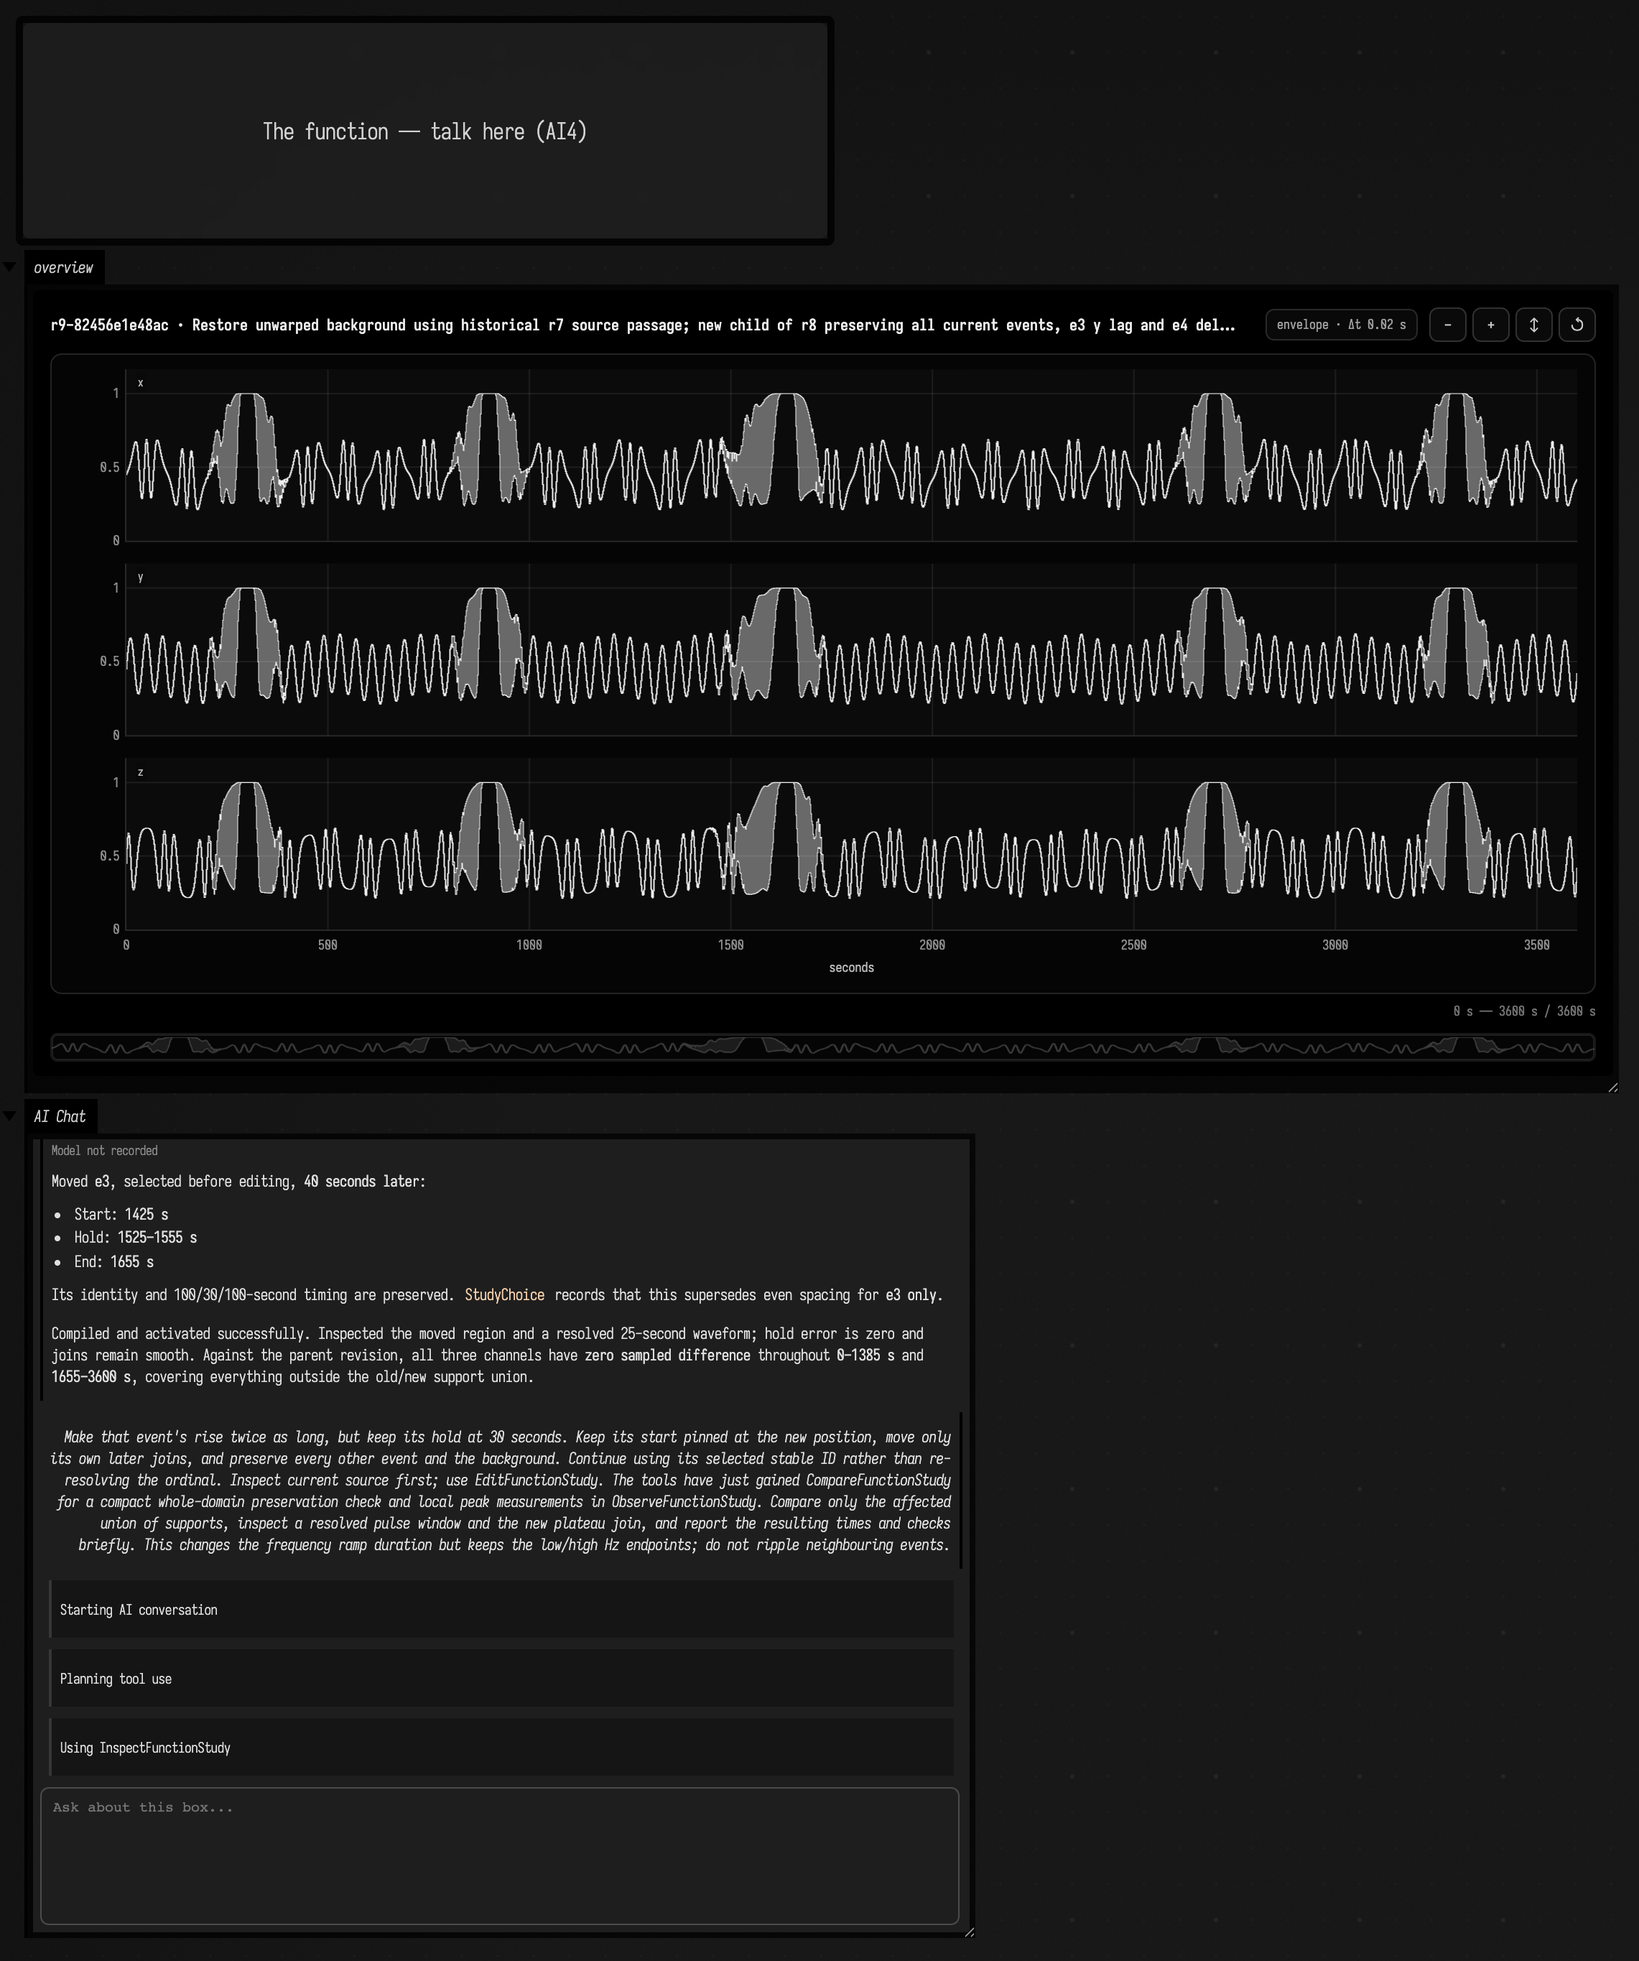
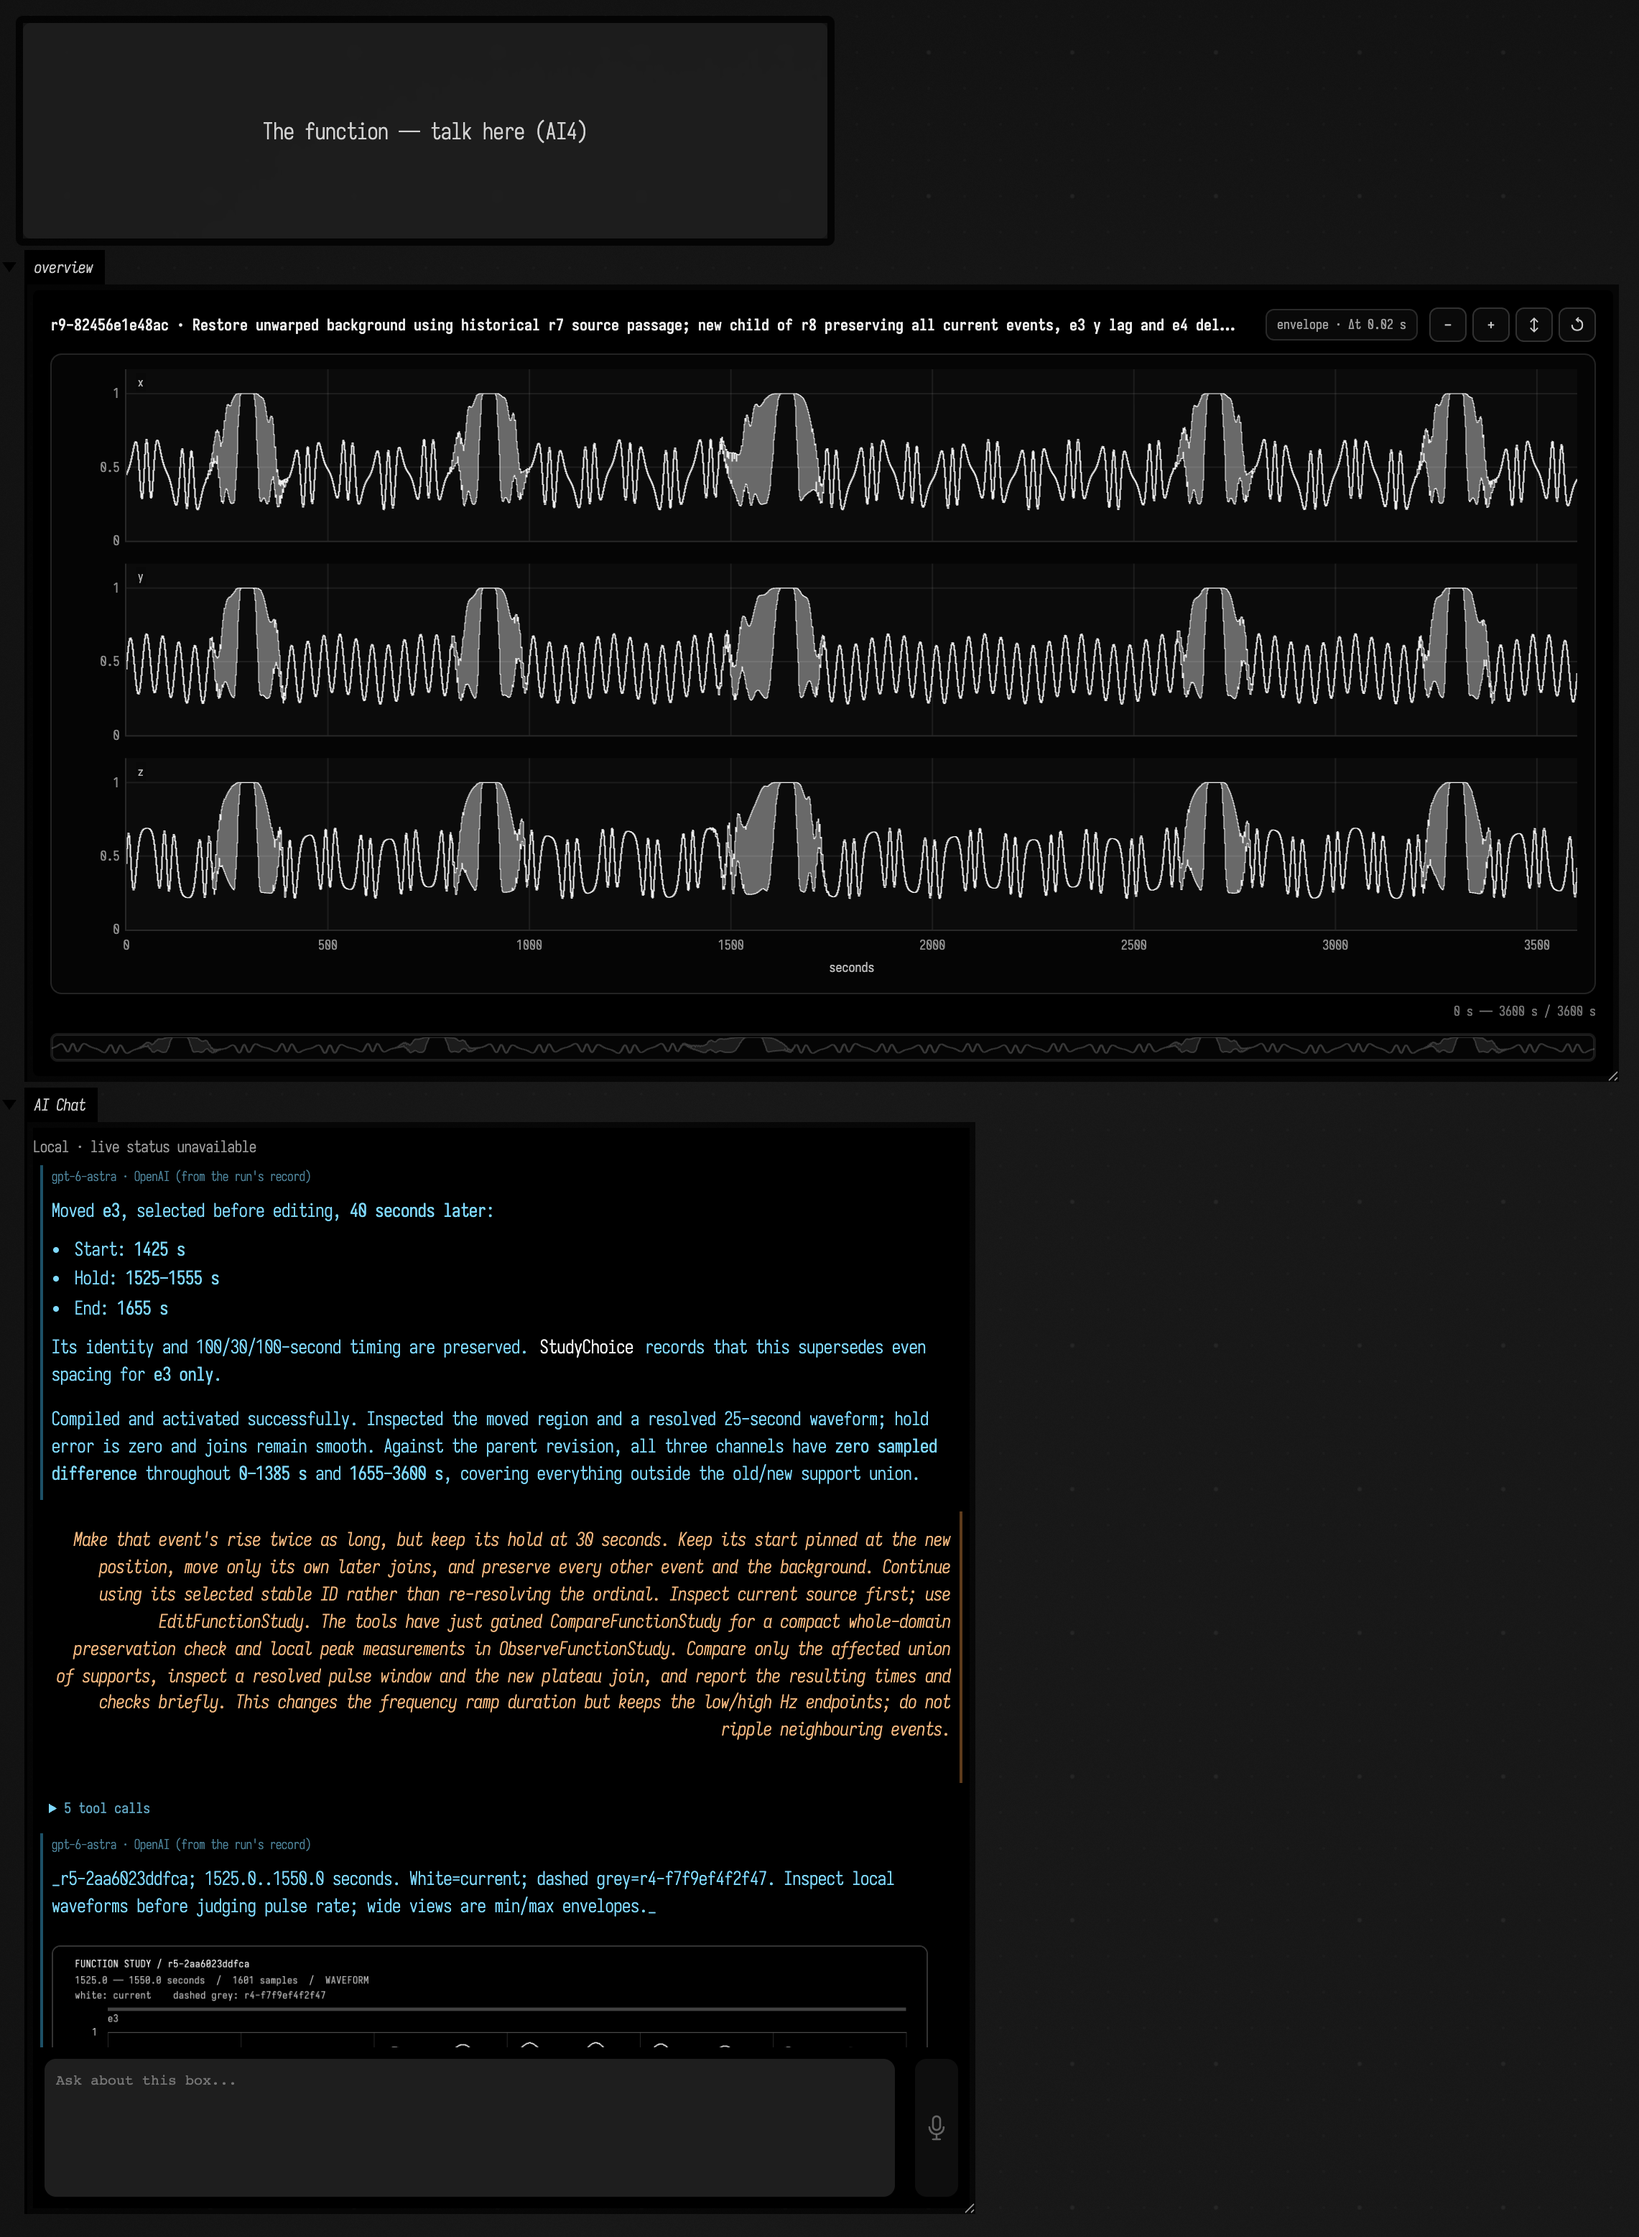
Recapture the function conversation's saved chat; accept recorded source migrations in SourceStudy
The package cutover rewrote the imports in the worked example's saved revisions, whose ids
hash their source, so every revision failed to load. A revision's metadata can now record
the migrated bytes' SHA-256 (migratedSourceSha256); the nine revisions carry it.

diff --git a/src/jvmMain/kotlin/afield/study/source/SourceStudy.kt b/src/jvmMain/kotlin/afield/study/source/SourceStudy.kt
@@ -222,12 +222,22 @@ class SourceStudy<T>(
         val sourceFile = revisionSourceFile(key)
         if (!sourceFile.isFile) throw StudyRejection("Unknown revision '$key'")
         val source = sourceFile.readText()
-        if (key.substringAfter('-') != hash(source).take(12)) throw StudyRejection("Revision source changed on disk: $key")
+        if (!sourceMatches(key, source)) throw StudyRejection("Revision source changed on disk: $key")
         val meta = readMeta(key)
         val admitted = load?.invoke(source) ?: admit(source) { false }
         val result = SourceRevision(key, meta.parent, meta.description, source, admitted.value, admitted.facts)
         revisions[key] = result
         return result
+    }
+
+    // An id names its source's hash at check-in. A repository-wide rewrite (a package rename) may change
+    // saved bytes afterwards without renaming revisions that recorded conversations cite; it records the
+    // rewritten bytes' full SHA-256 as `migratedSourceSha256` in the revision's metadata.
+    private fun sourceMatches(id: String, source: String): Boolean {
+        val digest = hash(source)
+        if (id.substringAfter('-') == digest.take(12)) return true
+        val metaFile = File(directory, "$id.json")
+        return metaFile.isFile && mapper.readTree(metaFile)["migratedSourceSha256"]?.asText() == digest
     }
 
     private data class Meta(val parent: String?, val description: String, val created: String?)
@@ -243,7 +253,7 @@ class SourceStudy<T>(
     fun savedSource(id: String): String {
         require(id.matches(REVISION_ID)) { "Unknown revision '$id'" }
         val source = revisionSourceFile(id).readText()
-        check(id.substringAfter('-') == hash(source).take(12)) { "Revision source changed on disk: $id" }
+        check(sourceMatches(id, source)) { "Revision source changed on disk: $id" }
         return source
     }
 

diff --git a/src/jvmTest/kotlin/afield/study/source/SourceStudyTest.kt b/src/jvmTest/kotlin/afield/study/source/SourceStudyTest.kt
@@ -48,6 +48,16 @@ class SourceStudyTest {
         try { block(dir) } finally { dir.deleteRecursively() }
     }
 
+    @Test fun aRewrittenRevisionLoadsOnlyWhenItsMetadataRecordsTheRewrite() = withDir { dir ->
+        val r1 = study(dir, Editor("start")).edit(SourceStudy.EMPTY, SourceStudy.hash("start"), "first", "one")
+        File(dir, "${r1.id}.txt").writeText("first, renamed")
+        assertFailsWith<StudyRejection> { study(dir, Editor("first")).revision(r1.id) }
+        val meta = File(dir, "${r1.id}.json")
+        meta.writeText(meta.readText().replaceFirst("{", "{\"migratedSourceSha256\": \"${SourceStudy.hash("first, renamed")}\","))
+        assertEquals("first, renamed", study(dir, Editor("first")).revision(r1.id).source)
+        assertEquals("first, renamed", study(dir, Editor("first")).savedSource(r1.id))
+    }
+
     @Test fun editsAreTransactionsAgainstTheRevisionAndTheLiveText() = withDir { dir ->
         val editor = Editor("start")
         val s = study(dir, editor)

diff --git a/tools/capture_function_conversation.py b/tools/capture_function_conversation.py
@@ -112,5 +112,5 @@ if __name__ == "__main__":
     parser = argparse.ArgumentParser(description=__doc__)
     parser.add_argument("--port", type=int, default=9796)
     args = parser.parse_args()
-    with tempfile.TemporaryDirectory(prefix="field-function-chat-capture-") as workspace:
+    with tempfile.TemporaryDirectory(prefix="field-function-chat-capture-", ignore_cleanup_errors=True) as workspace:
         asyncio.run(capture(args.port, workspace))

diff --git a/public/docs/function_conversation.md b/public/docs/function_conversation.md
@@ -117,8 +117,8 @@ the saved chat and viewer does not make a model call.
 This is Field's chat panel, restored from the recorded run. Here the chat is
 scrolled back to the move-and-stretch exchange; the viewer shows the final saved
 revision. The starter is still blank; the developed example carries this history.
-The older turns predate model badges, so they show **Model not recorded**; the
-archive names the run's provider and model.
+Each reply is labelled with the model that wrote it, taken from the run's
+record.
 
 ### From constants to a composition
 
